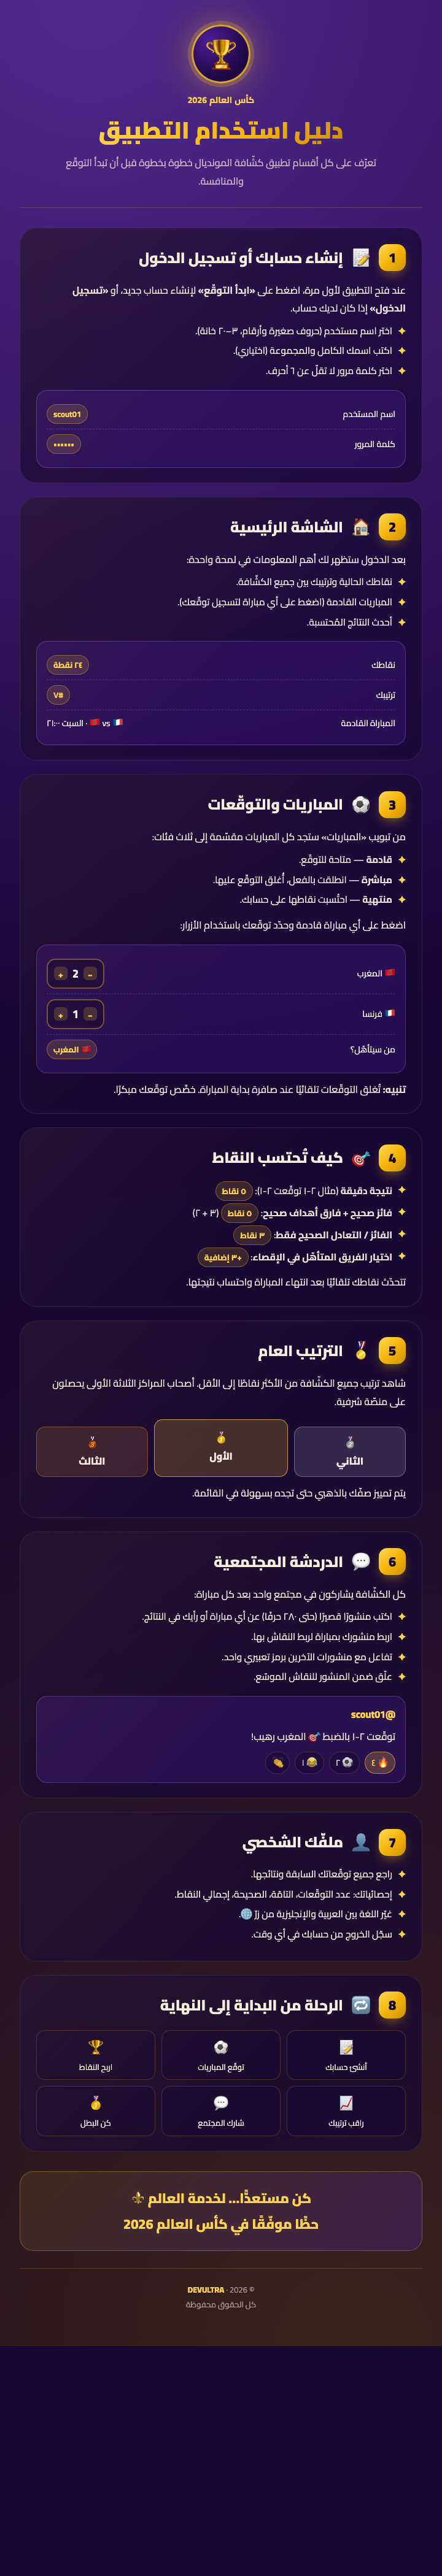
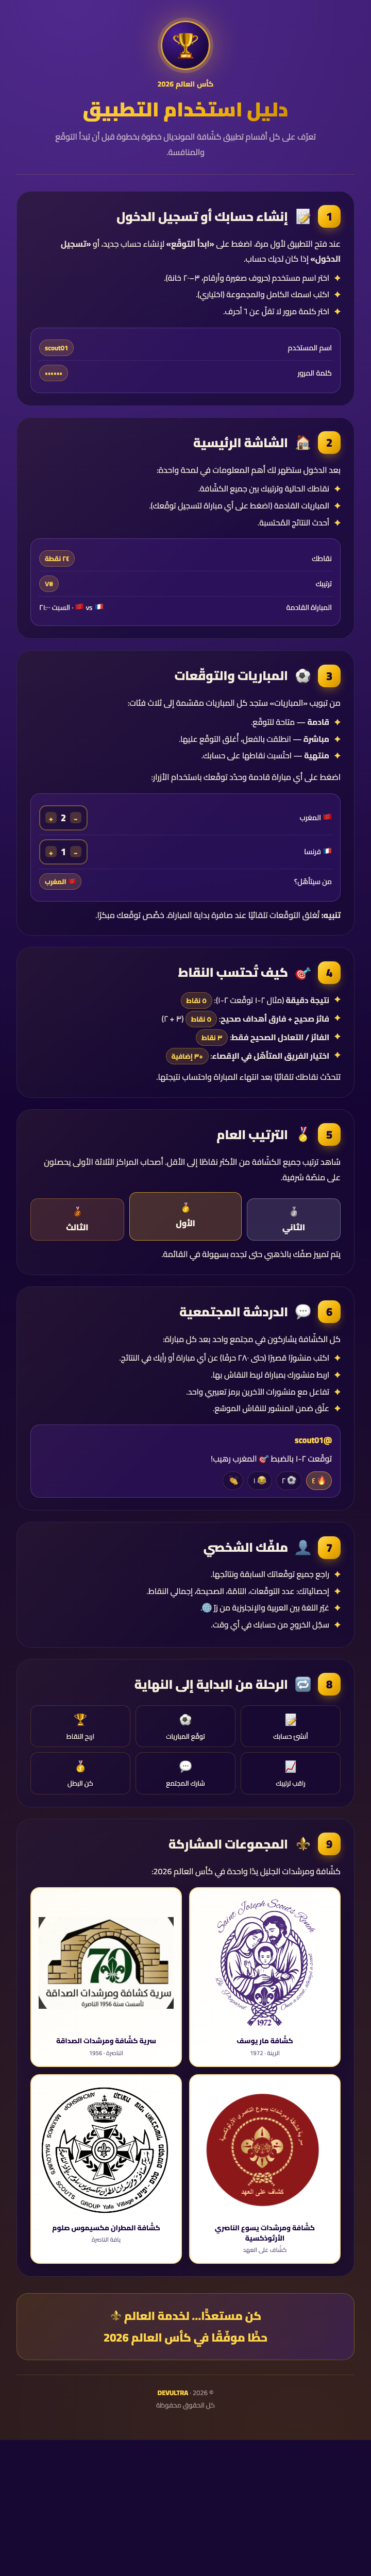
Add "Participating Scout Groups" section to user guide
Section 9 shows a 2×2 grid of the four partner scout groups with
their logos and names (RTL-friendly ordering):

- كشّافة مار يوسف — الرينة · 1972
- سرية كشّافة ومرشدات الصداقة — الناصرة · 1956
- كشّافة ومرشدات يسوع الناصري الأرثوذكسية
- كشّافة المطران مكسيموس صلوم — يافة الناصرة

Each tile uses a cream/white background card so the black-and-white
seal artworks read clearly against the royal-purple page. Updated
PNG re-rendered at 720×5000 to fit the new section.

diff --git a/docs/user-guide/user-guide-ar.html b/docs/user-guide/user-guide-ar.html
@@ -234,6 +234,49 @@
   }
   .flow-step .e { font-size: 24px; display: block; margin-bottom: 4px; }
 
+  .groups {
+    display: grid;
+    grid-template-columns: 1fr 1fr;
+    gap: 14px;
+    margin-top: 16px;
+  }
+  .group {
+    background: #ffffff;
+    border-radius: 18px;
+    padding: 14px;
+    text-align: center;
+    border: 2px solid rgba(252,192,40,0.45);
+    box-shadow: 0 10px 28px -10px rgba(0,0,0,0.45);
+  }
+  .group .img-wrap {
+    width: 100%;
+    aspect-ratio: 1 / 1;
+    display: grid; place-items: center;
+    overflow: hidden;
+    border-radius: 12px;
+    background: #ffffff;
+  }
+  .group img {
+    max-width: 100%;
+    max-height: 100%;
+    width: auto;
+    height: auto;
+    object-fit: contain;
+  }
+  .group .name {
+    margin-top: 10px;
+    font-size: 13.5px;
+    line-height: 1.5;
+    font-weight: 800;
+    color: #1c0743;
+  }
+  .group .meta {
+    font-size: 11.5px;
+    color: rgba(28, 7, 67, 0.65);
+    margin-top: 2px;
+    font-weight: 600;
+  }
+
   .footer {
     text-align: center;
     margin-top: 28px;
@@ -421,6 +464,38 @@
       <div class="flow-step"><span class="e">📈</span>راقب ترتيبك</div>
       <div class="flow-step"><span class="e">💬</span>شارك المجتمع</div>
       <div class="flow-step"><span class="e">🥇</span>كن البطل</div>
+    </div>
+  </div>
+
+  <!-- Scouts groups -->
+  <div class="section">
+    <div class="section-head">
+      <div class="num">9</div>
+      <div class="icon">⚜️</div>
+      <h2>المجموعات المشاركة</h2>
+    </div>
+    <p>كشّافة ومرشدات الجليل يدًا واحدة في كأس العالم 2026:</p>
+    <div class="groups">
+      <div class="group">
+        <div class="img-wrap"><img src="logos/reneh.png" alt="كشّافة مار يوسف الرينة" /></div>
+        <div class="name">كشّافة مار يوسف</div>
+        <div class="meta">الرينة · 1972</div>
+      </div>
+      <div class="group">
+        <div class="img-wrap"><img src="logos/sadaqa.png" alt="سرية الصداقة" /></div>
+        <div class="name">سرية كشّافة ومرشدات الصداقة</div>
+        <div class="meta">الناصرة · 1956</div>
+      </div>
+      <div class="group">
+        <div class="img-wrap"><img src="logos/yasou.png" alt="كشّافة يسوع الناصري الأرثوذكسية" /></div>
+        <div class="name">كشّافة ومرشدات يسوع الناصري الأرثوذكسية</div>
+        <div class="meta">كشّاف على العهد</div>
+      </div>
+      <div class="group">
+        <div class="img-wrap"><img src="logos/maximos.png" alt="كشّافة المطران مكسيموس صلوم" /></div>
+        <div class="name">كشّافة المطران مكسيموس صلوم</div>
+        <div class="meta">يافة الناصرة</div>
+      </div>
     </div>
   </div>
 